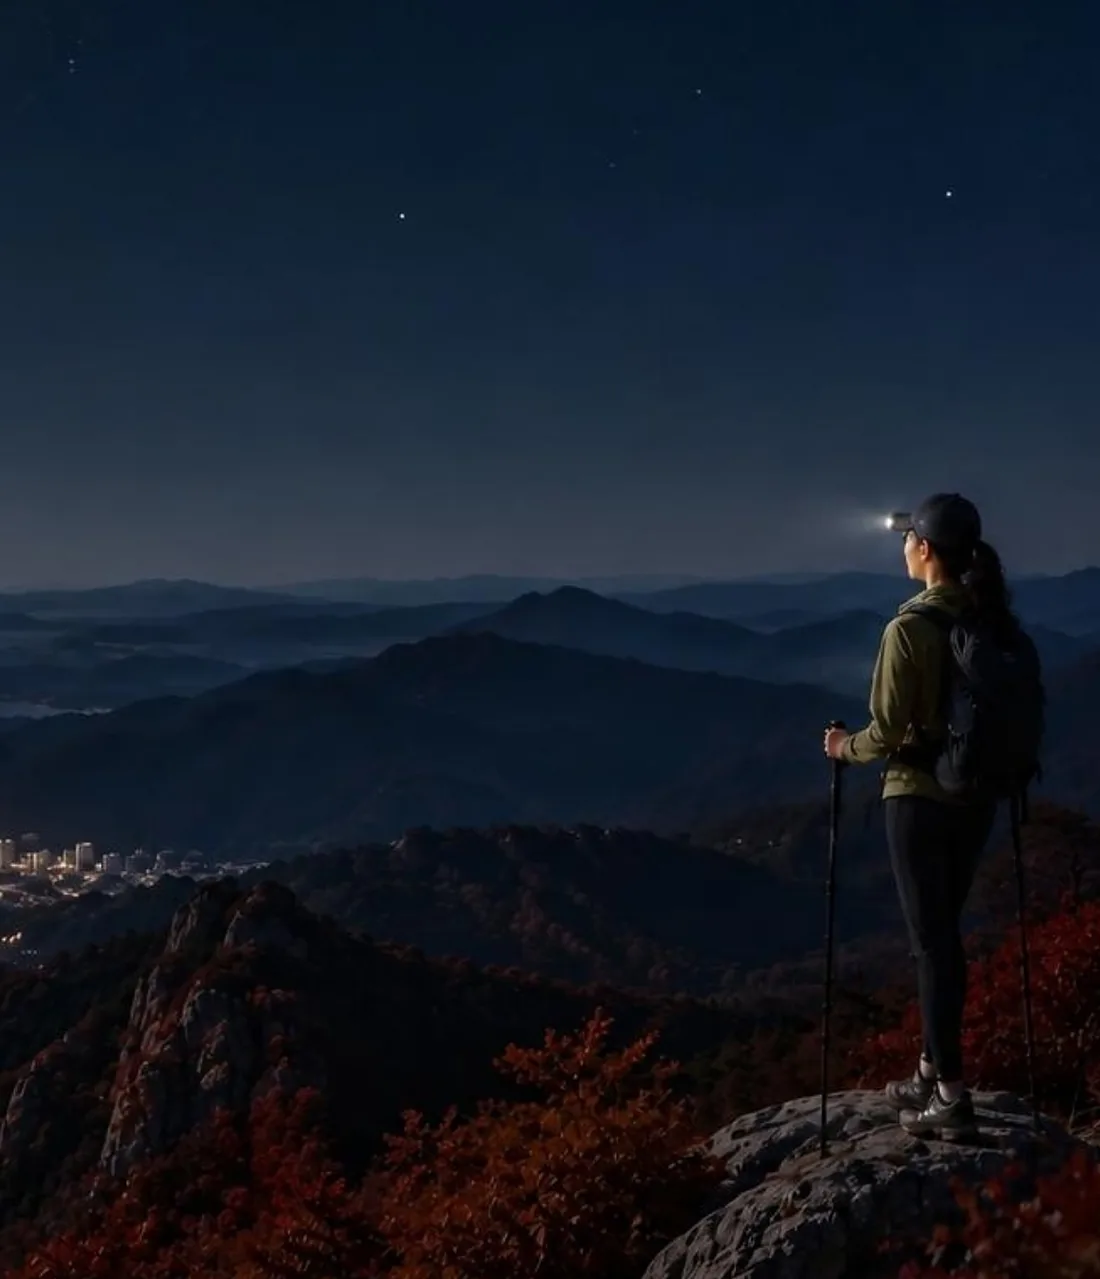
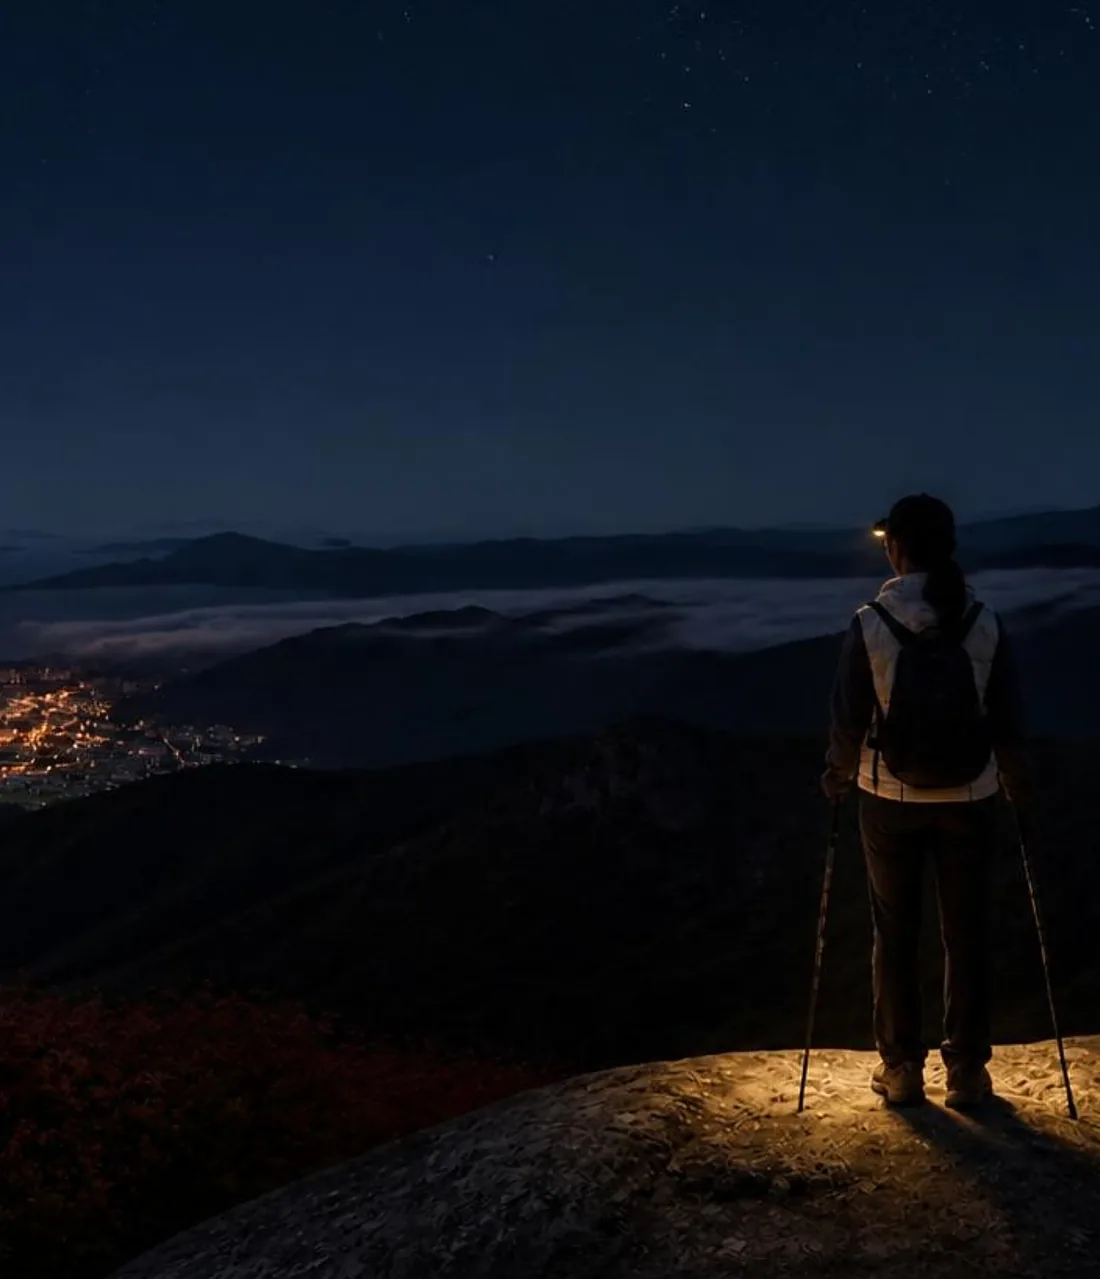
히어로 가을 심야 v11 적용 (승인 참조 기준 검수 통과)
Claude-Session: https://claude.ai/code/session_01TTPn3ts8fEyWREDupZmwxM

diff --git a/_src.html b/_src.html
@@ -13,7 +13,7 @@
 (function(){var k="";try{var d=new Date(),M=d.getMonth()+1,h=d.getHours();
 var s=M>=3&&M<=5?"spring":M>=6&&M<=8?"summer":M>=9&&M<=11?"autumn":"winter";
 var t=h>=4&&h<7?"dawn":h>=7&&h<17?"day":h>=17&&h<21?"evening":"night";k=s+"-"+t;
-var READY={"spring-dawn":1,"spring-day":1,"spring-evening":1,"spring-night":1,"summer-dawn":1,"summer-day":1,"summer-evening":1,"summer-night":1,"autumn-dawn":1,"autumn-day":1,"autumn-evening":1};/* 검수 통과분만 노출, 나머지는 원본 히어로 */
+var READY={"spring-dawn":1,"spring-day":1,"spring-evening":1,"spring-night":1,"summer-dawn":1,"summer-day":1,"summer-evening":1,"summer-night":1,"autumn-dawn":1,"autumn-day":1,"autumn-evening":1,"autumn-night":1};/* 검수 통과분만 노출, 나머지는 원본 히어로 */
 window.__heroReady=READY;if(!READY[k])k="";
 var q=/[?&]hero=((?:spring|summer|autumn|winter)-(?:dawn|day|evening|night))(?:&|$)/.exec(location.search);if(q&&READY[q[1]])k=q[1];}catch(e){k="";}
 window.__hero=k;var a=k?"/img/hero/"+k:"/img/hero",b=k?"/img/hero/"+k+"-m.webp":"/img/hero-m.webp";
@@ -333,7 +333,7 @@ footer{background:var(--dark);color:rgba(255,255,255,.5);border-top:1px solid rg
       <img class="bg" id="heroImg" width="2560" height="1280" alt="산 정상 바위에 서서 다도해와 겹겹의 산줄기를 바라보는 등산객" fetchpriority="high" />
     </picture>
     <script>(function(){var k=window.__hero,i=document.getElementById("heroImg"),s=document.getElementById("heroSrc"),w=document.getElementById("bgwrap");
-var C={"spring-dawn":["#c79d96","#43383d"],"spring-day":["#6fb0dc","#6d6f5e"],"spring-evening":["#db9d6b","#492b22"],"spring-night":["#0c1829","#0f0e13"],"summer-dawn":["#cab3a1","#39403e"],"summer-day":["#82b6df","#40544d"],"summer-evening":["#c18d66","#3c3020"],"summer-night":["#0e2241","#17171b"],"autumn-dawn":["#b394a3","#503737"],"autumn-day":["#6dadd8","#835b44"],"autumn-evening":["#cc8557","#5d2d1c"],"autumn-night":["#1b293a","#17151a"],"winter-dawn":["#a8acce","#475986"],"winter-day":["#afcfee","#77879c"],"winter-evening":["#8d7575","#4e3f4f"],"winter-night":["#182742","#1c273d"]};function fb(){s.srcset="/img/hero-m.webp";i.src="/img/hero.webp";w.style.backgroundImage="";}
+var C={"spring-dawn":["#c79d96","#43383d"],"spring-day":["#6fb0dc","#6d6f5e"],"spring-evening":["#db9d6b","#492b22"],"spring-night":["#0c1829","#0f0e13"],"summer-dawn":["#cab3a1","#39403e"],"summer-day":["#82b6df","#40544d"],"summer-evening":["#c18d66","#3c3020"],"summer-night":["#0e2241","#17171b"],"autumn-dawn":["#b394a3","#503737"],"autumn-day":["#6dadd8","#835b44"],"autumn-evening":["#cc8557","#5d2d1c"],"autumn-night":["#0f1e31","#110d0e"],"winter-dawn":["#a8acce","#475986"],"winter-day":["#afcfee","#77879c"],"winter-evening":["#8d7575","#4e3f4f"],"winter-night":["#182742","#1c273d"]};function fb(){s.srcset="/img/hero-m.webp";i.src="/img/hero.webp";w.style.backgroundImage="";}
 if(!k){fb();return;}i.addEventListener("error",function(){if(!i.getAttribute("data-fb")){i.setAttribute("data-fb","1");fb();}});
 if(C[k])w.style.backgroundImage="linear-gradient(180deg,"+C[k][0]+","+C[k][1]+")";
 s.srcset="/img/hero/"+k+"-m.webp";i.src="/img/hero/"+k+".webp";})();</script>

diff --git a/index.html b/index.html
@@ -13,7 +13,7 @@
 (function(){var k="";try{var d=new Date(),M=d.getMonth()+1,h=d.getHours();
 var s=M>=3&&M<=5?"spring":M>=6&&M<=8?"summer":M>=9&&M<=11?"autumn":"winter";
 var t=h>=4&&h<7?"dawn":h>=7&&h<17?"day":h>=17&&h<21?"evening":"night";k=s+"-"+t;
-var READY={"spring-dawn":1,"spring-day":1,"spring-evening":1,"spring-night":1,"summer-dawn":1,"summer-day":1,"summer-evening":1,"summer-night":1,"autumn-dawn":1,"autumn-day":1,"autumn-evening":1};/* 검수 통과분만 노출, 나머지는 원본 히어로 */
+var READY={"spring-dawn":1,"spring-day":1,"spring-evening":1,"spring-night":1,"summer-dawn":1,"summer-day":1,"summer-evening":1,"summer-night":1,"autumn-dawn":1,"autumn-day":1,"autumn-evening":1,"autumn-night":1};/* 검수 통과분만 노출, 나머지는 원본 히어로 */
 window.__heroReady=READY;if(!READY[k])k="";
 var q=/[?&]hero=((?:spring|summer|autumn|winter)-(?:dawn|day|evening|night))(?:&|$)/.exec(location.search);if(q&&READY[q[1]])k=q[1];}catch(e){k="";}
 window.__hero=k;var a=k?"/img/hero/"+k:"/img/hero",b=k?"/img/hero/"+k+"-m.webp":"/img/hero-m.webp";
@@ -333,7 +333,7 @@ footer{background:var(--dark);color:rgba(255,255,255,.5);border-top:1px solid rg
       <img class="bg" id="heroImg" width="2560" height="1280" alt="산 정상 바위에 서서 다도해와 겹겹의 산줄기를 바라보는 등산객" fetchpriority="high" />
     </picture>
     <script>(function(){var k=window.__hero,i=document.getElementById("heroImg"),s=document.getElementById("heroSrc"),w=document.getElementById("bgwrap");
-var C={"spring-dawn":["#c79d96","#43383d"],"spring-day":["#6fb0dc","#6d6f5e"],"spring-evening":["#db9d6b","#492b22"],"spring-night":["#0c1829","#0f0e13"],"summer-dawn":["#cab3a1","#39403e"],"summer-day":["#82b6df","#40544d"],"summer-evening":["#c18d66","#3c3020"],"summer-night":["#0e2241","#17171b"],"autumn-dawn":["#b394a3","#503737"],"autumn-day":["#6dadd8","#835b44"],"autumn-evening":["#cc8557","#5d2d1c"],"autumn-night":["#1b293a","#17151a"],"winter-dawn":["#a8acce","#475986"],"winter-day":["#afcfee","#77879c"],"winter-evening":["#8d7575","#4e3f4f"],"winter-night":["#182742","#1c273d"]};function fb(){s.srcset="/img/hero-m.webp";i.src="/img/hero.webp";w.style.backgroundImage="";}
+var C={"spring-dawn":["#c79d96","#43383d"],"spring-day":["#6fb0dc","#6d6f5e"],"spring-evening":["#db9d6b","#492b22"],"spring-night":["#0c1829","#0f0e13"],"summer-dawn":["#cab3a1","#39403e"],"summer-day":["#82b6df","#40544d"],"summer-evening":["#c18d66","#3c3020"],"summer-night":["#0e2241","#17171b"],"autumn-dawn":["#b394a3","#503737"],"autumn-day":["#6dadd8","#835b44"],"autumn-evening":["#cc8557","#5d2d1c"],"autumn-night":["#0f1e31","#110d0e"],"winter-dawn":["#a8acce","#475986"],"winter-day":["#afcfee","#77879c"],"winter-evening":["#8d7575","#4e3f4f"],"winter-night":["#182742","#1c273d"]};function fb(){s.srcset="/img/hero-m.webp";i.src="/img/hero.webp";w.style.backgroundImage="";}
 if(!k){fb();return;}i.addEventListener("error",function(){if(!i.getAttribute("data-fb")){i.setAttribute("data-fb","1");fb();}});
 if(C[k])w.style.backgroundImage="linear-gradient(180deg,"+C[k][0]+","+C[k][1]+")";
 s.srcset="/img/hero/"+k+"-m.webp";i.src="/img/hero/"+k+".webp";})();</script>
